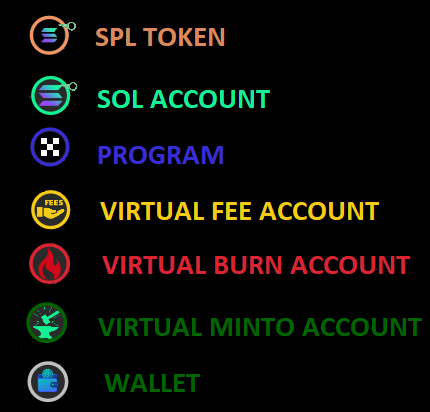
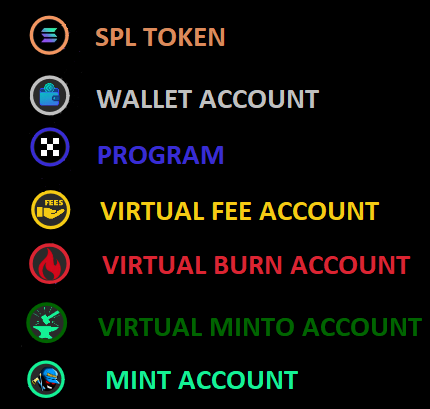
Refacto DOC to take into account new color code and wallet account type

diff --git a/README.md b/README.md
@@ -106,7 +106,7 @@ A stake icon for .. stake accounts !
 
 #### Design Choices: Virtual Links & Nodes
 ##### Swaps
-![Swaps](GrafolanaFront/public/swap.png)
+![Swaps](GrafolanaFront/doc/swap.png)
 
 When swaps are recognized by the system a virtual swap transfer representing the swap is added to the graph.
 It allows to connect accounts together by this programmatic relationship.
@@ -295,7 +295,7 @@ The 3 differents views offer different use cases depending on your needs.
 Let's take an example with this transaction that covers a lot of use cases.
 It's an arbitrage WSOL->WSOL :
 ```
[2 lines of base64/hex data omitted]
 ```
 
 ##### Transfers View
